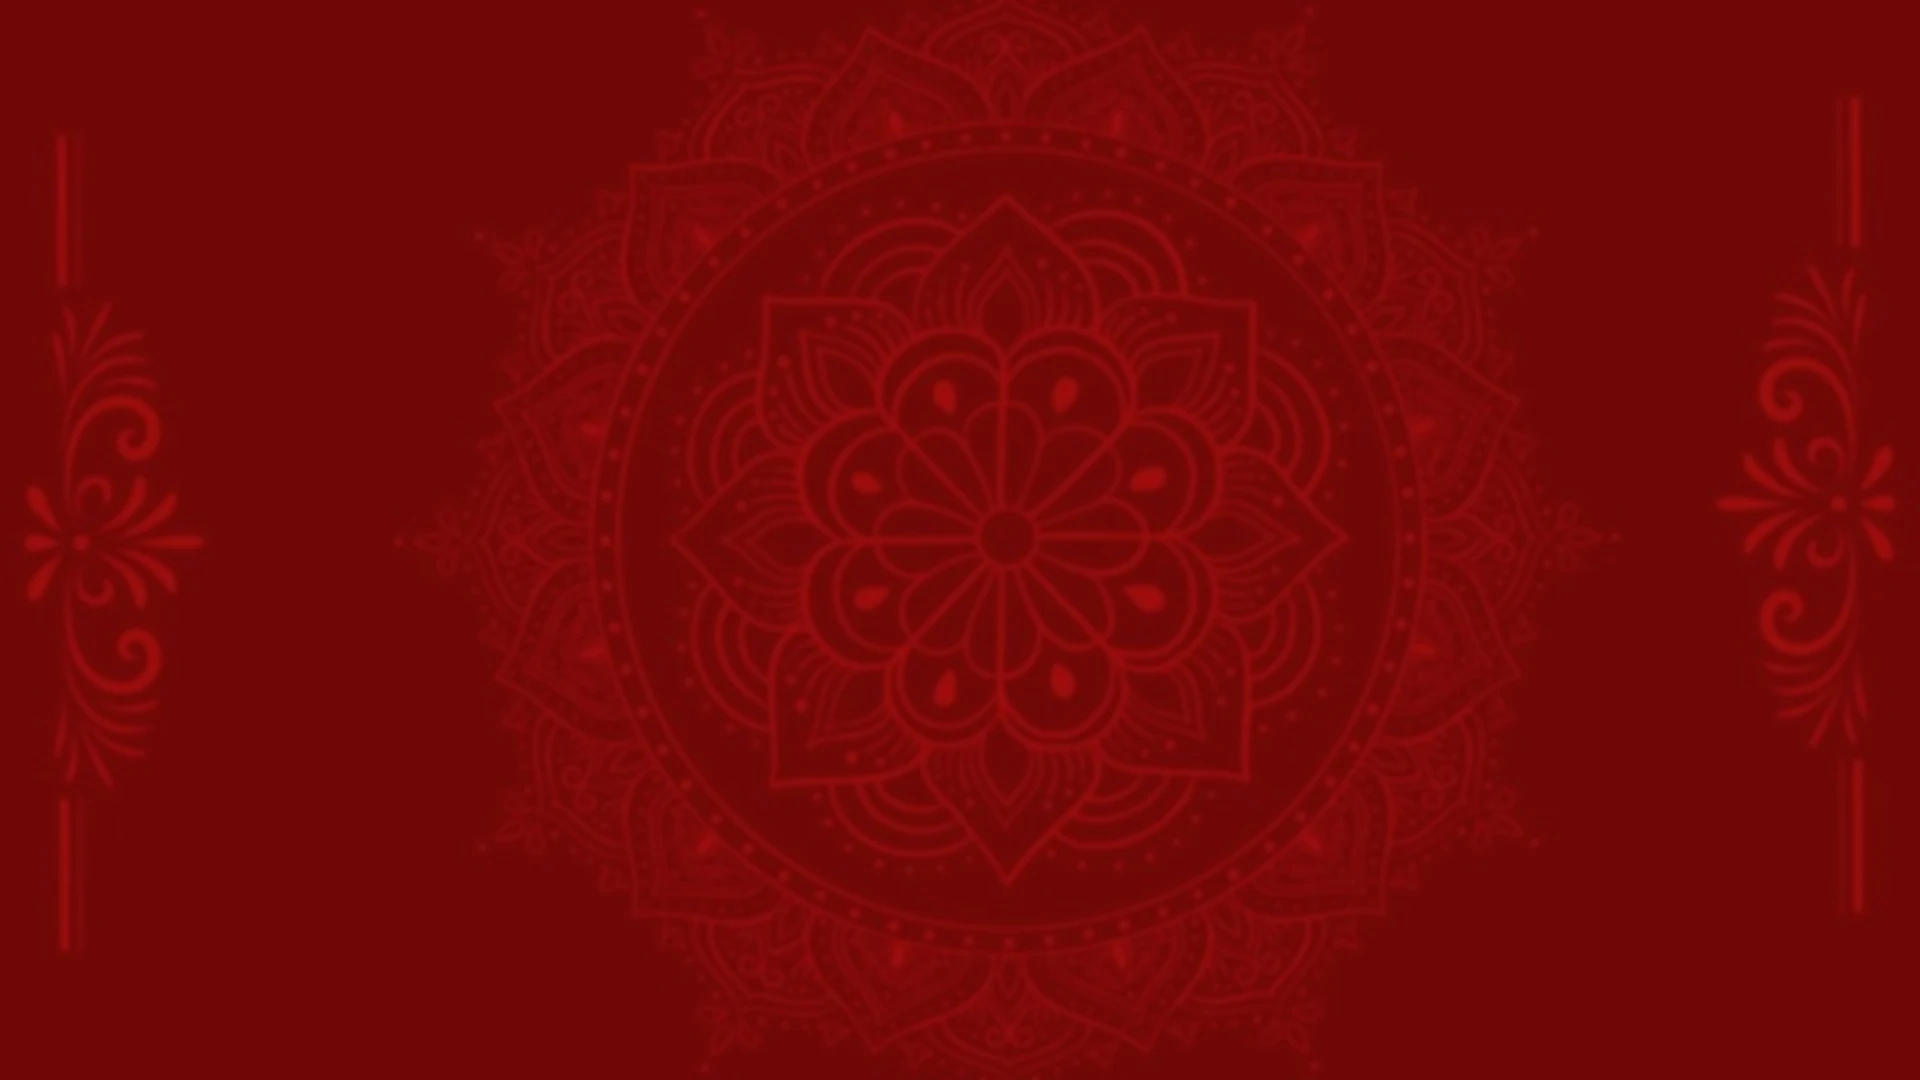
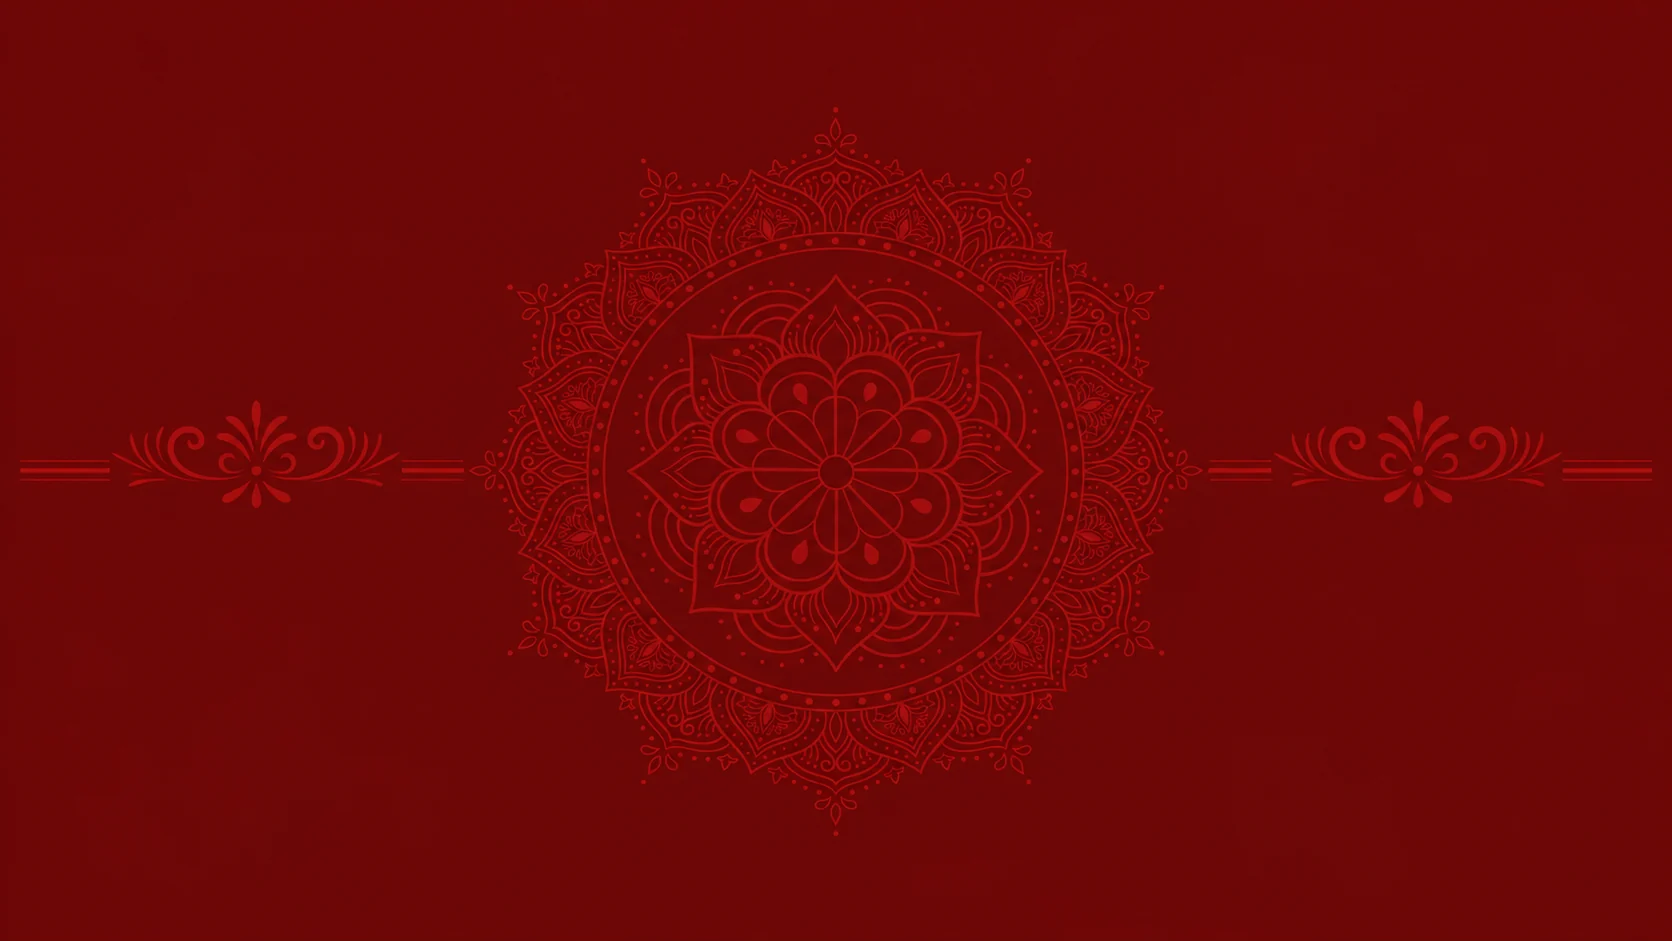
Restore earlier desktop hero background artwork and styles

diff --git a/index.html b/index.html
@@ -1843,8 +1843,6 @@
 .ui2-hero-bag-card.ui2-bag-primary:hover,.ui2-hero-bag-card[data-rice-name*="Silver"]:hover,.ui2-hero-bag-card.ui2-bag-primary:focus-visible,.ui2-hero-bag-card[data-rice-name*="Silver"]:focus-visible{transform:translateY(-5px) scale(1)!important;z-index:10!important;box-shadow:none!important;filter:none!important}
 .ui2-hero-bag-card::after,.ui2-hero-bag-card:hover::after{display:none!important;content:none!important}
 @media(min-width:761px){
-  .ui2-top{background:#670810!important}
-  .ui2-top:before{display:block!important;content:''!important;position:absolute!important;inset:-6px!important;background:url('hero-mandala-landscape.webp') center/cover no-repeat!important;filter:blur(2px)!important;transform:scale(1.02)!important;pointer-events:none!important}
   .ui2-hero{padding-bottom:calc(48px + 18px)!important}
   .ui2-hero-copy{transform:none!important;margin-bottom:clamp(20px,2.8vw,36px)!important}
   .ui2-hero-bags{padding-bottom:0!important;margin:0 auto!important;transform:none!important;gap:clamp(12px,1.8vw,24px)!important}
